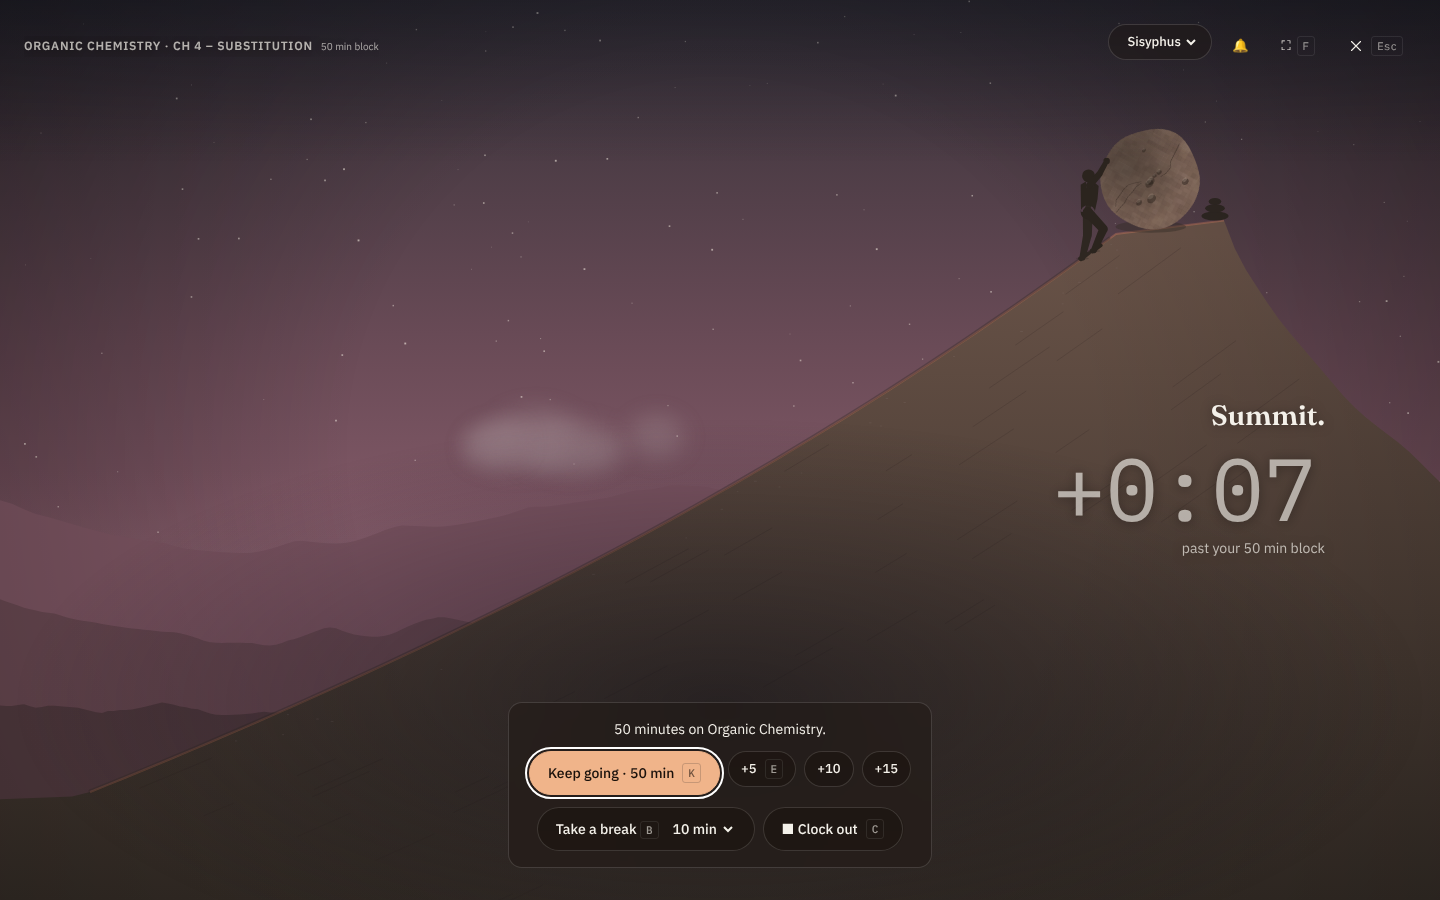
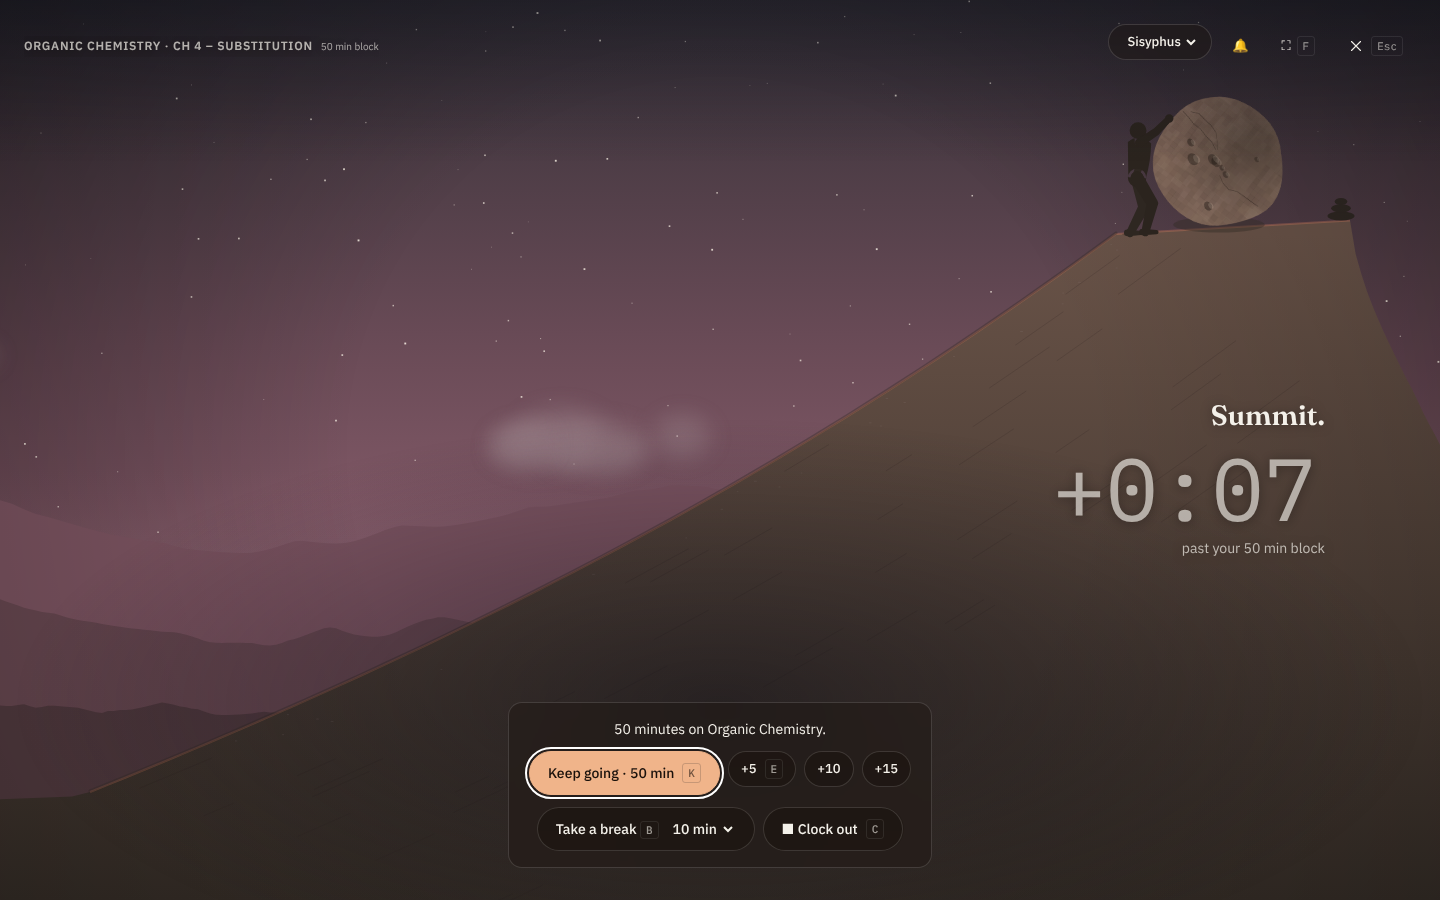
Review round 2: Resolution, portrait sun path, fresh screenshots
- Portrait sun arc stays below the readout band (S2 follow-up).
- Screenshots: focus p0.5 desktop + phone, live summit desktop + phone,
  Today 1440×900 and 1280×800, chrome faded after idle (desktop + phone).
- REVIEW_ROUND2.md gains a Resolution section.

Claude-Session: https://claude.ai/code/session_01G9uuWeZfSbAx9jT1x1TUse

Changed region(s): [[0.75, 0.0933, 0.9375, 0.28]]

diff --git a/src/focus/scenes/path.ts b/src/focus/scenes/path.ts
@@ -140,7 +140,8 @@ export function summitS(R: number, L: number): number { return 1 - (R * 0.9) / L
 /** Quadratic Bézier sun path in screen space (§3.6). */
 export function sunPosition(p: number, w: number, h: number, horizonY: number, summit: V, layout: Layout): V {
   const A = { x: 0.1 * w, y: horizonY };
-  const C = layout === 'portrait' ? { x: 0.4 * w, y: 0.08 * h } : { x: 0.42 * w, y: 0.1 * h };
+  // Portrait keeps the sun below the readout band at the top of the screen (review S2).
+  const C = layout === 'portrait' ? { x: 0.4 * w, y: 0.3 * h } : { x: 0.42 * w, y: 0.1 * h };
   const B = { x: summit.x + 0.035 * w, y: summit.y - 0.11 * h };
   const t = Math.min(1, Math.max(0, p)), u = 1 - t;
   return { x: u * u * A.x + 2 * u * t * C.x + t * t * B.x, y: u * u * A.y + 2 * u * t * C.y + t * t * B.y };

diff --git a/docs/REVIEW_ROUND2.md b/docs/REVIEW_ROUND2.md
@@ -146,3 +146,26 @@ I captured frames at 130 ms intervals at 1440×900 (dpr 2) and 390×844 (dpr 3).
 - Vite dev server (`npm run dev`) for the walkthrough and `vite preview` for splash timing. Playwright 1.63 Chromium, headless, `timezoneId: UTC`, with `page.clock` installed at 2026-10-27 14:20 for the timed flows. Frame-time runs used no fake clock.
 - Fixture: 3 courses (OChem, LinAlg, Physics), 3 entries today plus 2 yesterday, a week plan with blocks 09:00–10:45, 11:00–12:00, 14:00–15:00 and 16:00–17:00, an unfinished Monday section (carry-over banner) and a 48 h goal. Variants: running timer from 14:05, 15 extra entries, a 10 h timer, a v1 blob and a stale paused session.
 - I wrote no code changes. The only files touched are this report and `docs/review/round2/`.
+
+## Resolution
+
+Coder, 27 Oct 2026. Every finding was reproduced before it was fixed. Tests: 228 pass (was 224). Typecheck and build are clean.
+
+| ID | Outcome | Commit |
+|---|---|---|
+| S1 | **Fixed.** Removed the `:focus-within` override, so the top bar, readout and controls all fade after 3 s idle, also on phones (the 0.35 floor is gone) and also while focus sits on Pause. A key, tap or mouse move brings them back, and Tab still reveals them. While the chrome is faded, Enter/Space on the invisible focused control only reveals it. | 09b736b |
+| S2 | **Fixed.** Portrait lifts the world by 19% of the height, so the climb sits above the control bar. The stone stays on screen on narrow phones. The figure is ~73 px standing at 390 px, and the sun path stays below the readout. The course label wraps onto its own line under 480 px. The complete panel clears the summit. The desktop figure and stone are 30% larger. | 079bc09, this commit |
+| S3 | **Fixed.** `blockMinutes` stays the chosen length. A new `targetMs`/`extendedMinutes` pair holds the exact current target. +10 at +3:16 gives 10:00 left. Keep going / Next block use 25. The header reads "25 min block · +10". While focusing, +N adds to what's left. Tested. | 93c353f |
+| S4 | **Fixed.** Longer plateaus mean the figure steps onto the plateau and rests a hand on top of the stone. "Summit." appears at about 3.6 s (the delay is now computed once). The glow punch-in was not added. | 079bc09, c484ea9 |
+| S5 | **Fixed.** The figure sits on the plateau against the stone and stands up (1 s) when the break runs out. | 079bc09 |
+| S6 | **Fixed.** The roll-back cross-fades from the current sky to dawn, with no noon flash. | 079bc09 |
+| S7 | **Fixed.** Focus returns to the opener: Back to focus or the pill when the original button re-rendered. A scene click keeps focus in the dialog. | 30bcedd |
+| S8 | **Fixed.** The Start card's pick block and running block sit centred above TODAY, and the running readout grows to 76 px. There's no "Behind" before a study day of the week has passed. | 54870f4 |
+| S9 | **Fixed.** "Until 15:00" targets the planned end exactly (ends 15:00:00). Tested. | 93c353f |
+| S10 | Fixed: the planned chip shows a course dot. | 54870f4 |
+| S11 | Skipped (nit): the log row is already a grid. The ragged look comes from the time-range text. Left for a later polish pass. | — |
+| S12 | Fixed: "left · paused". | c484ea9 |
+| S13 | Fixed: the inline skip rule applies the 6 h stale check. Tested. | 243ee22 |
+| S14 | Partly: the dust is tinted and fainter. Joint seams and the contact shadow are unchanged. | 079bc09 |
+| S15 | Fixed with S1: Enter/Space in the first 600 ms after opening is swallowed. | 09b736b |
+| Perf | Screens over 3 MP cap the canvas at 1.3 MP. Headless 3440×1440 went from ~18 to ~22 fps. | 2c4a828 |
